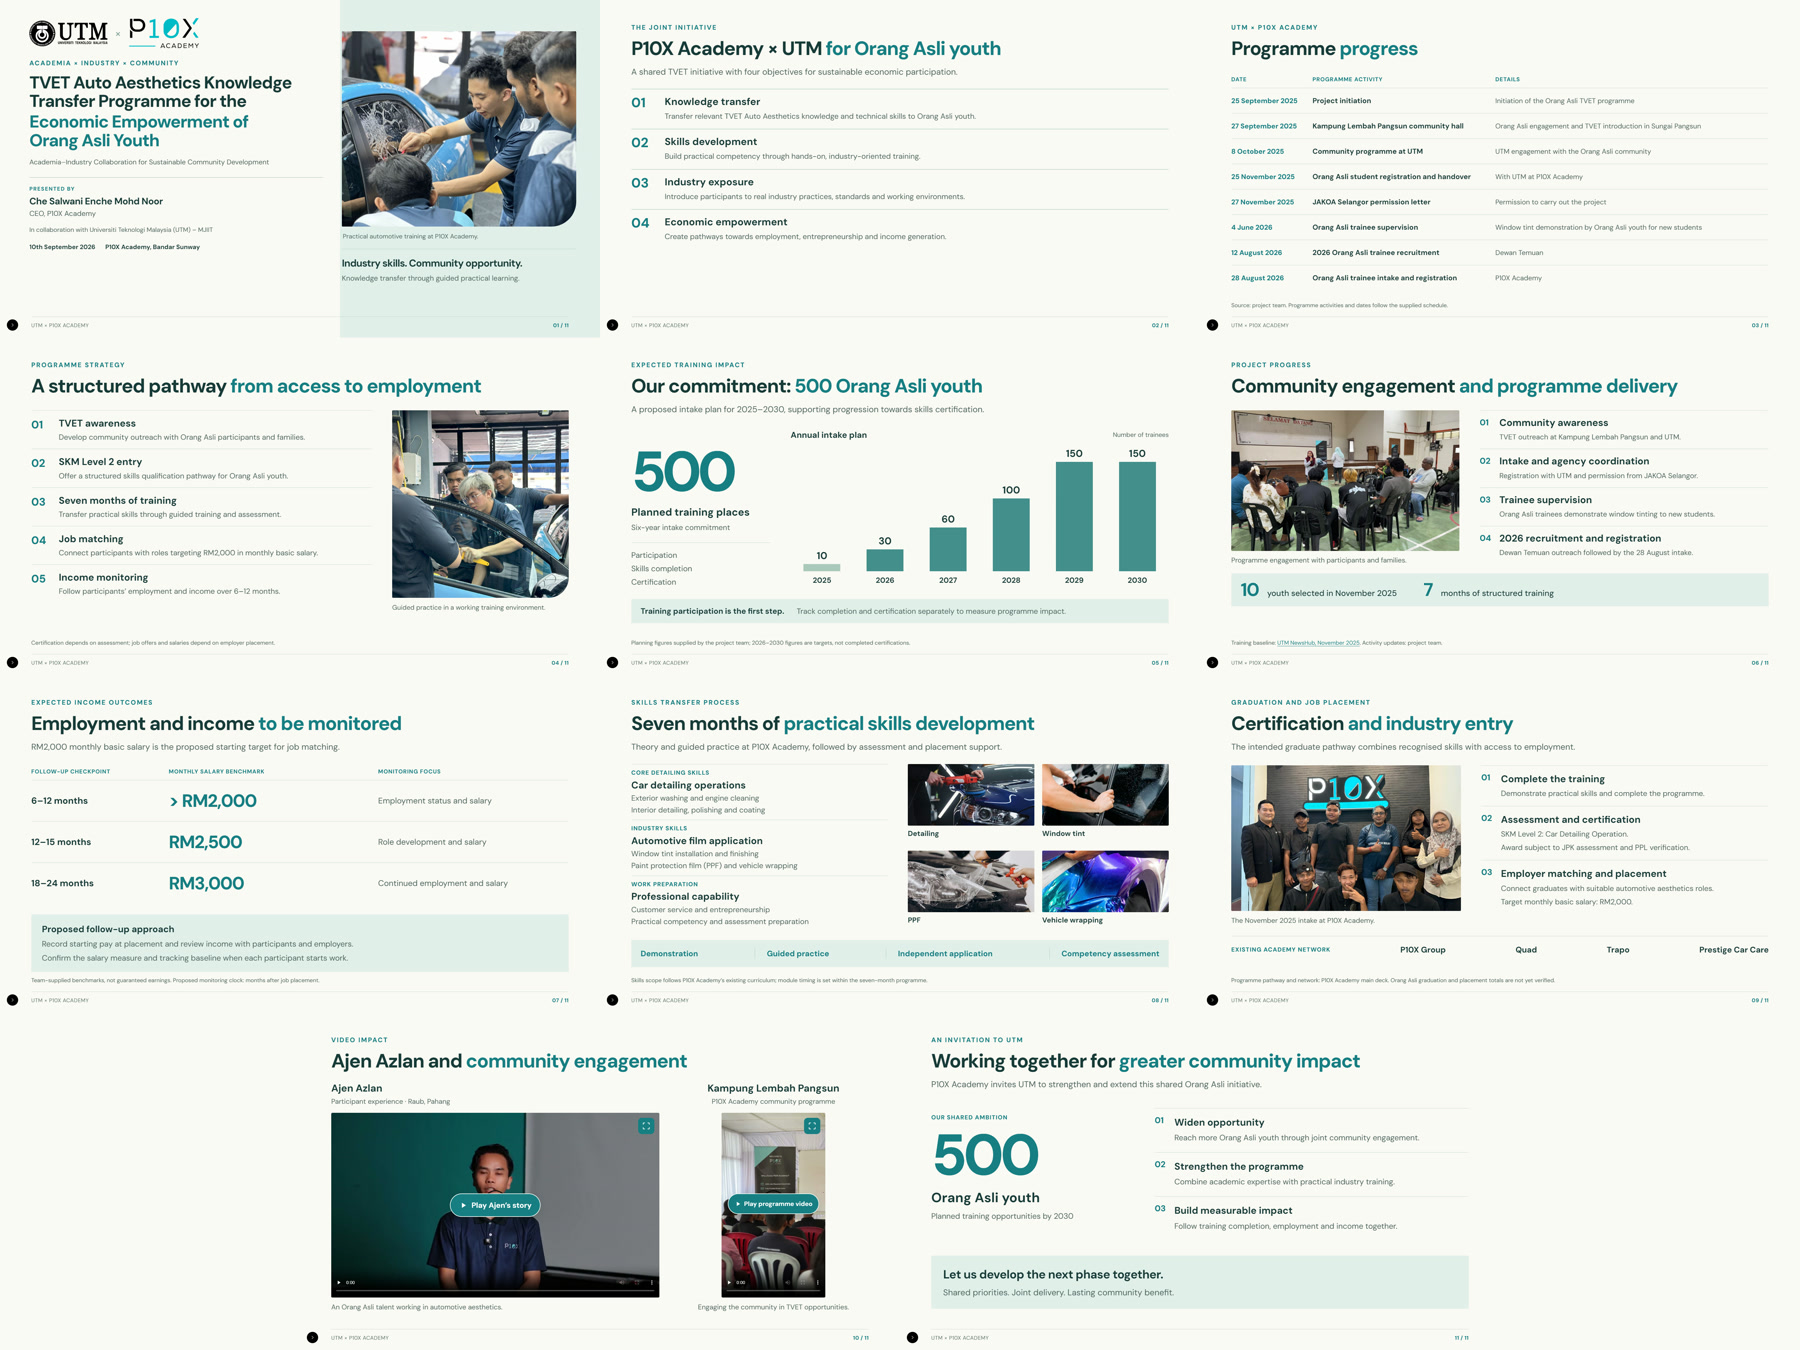
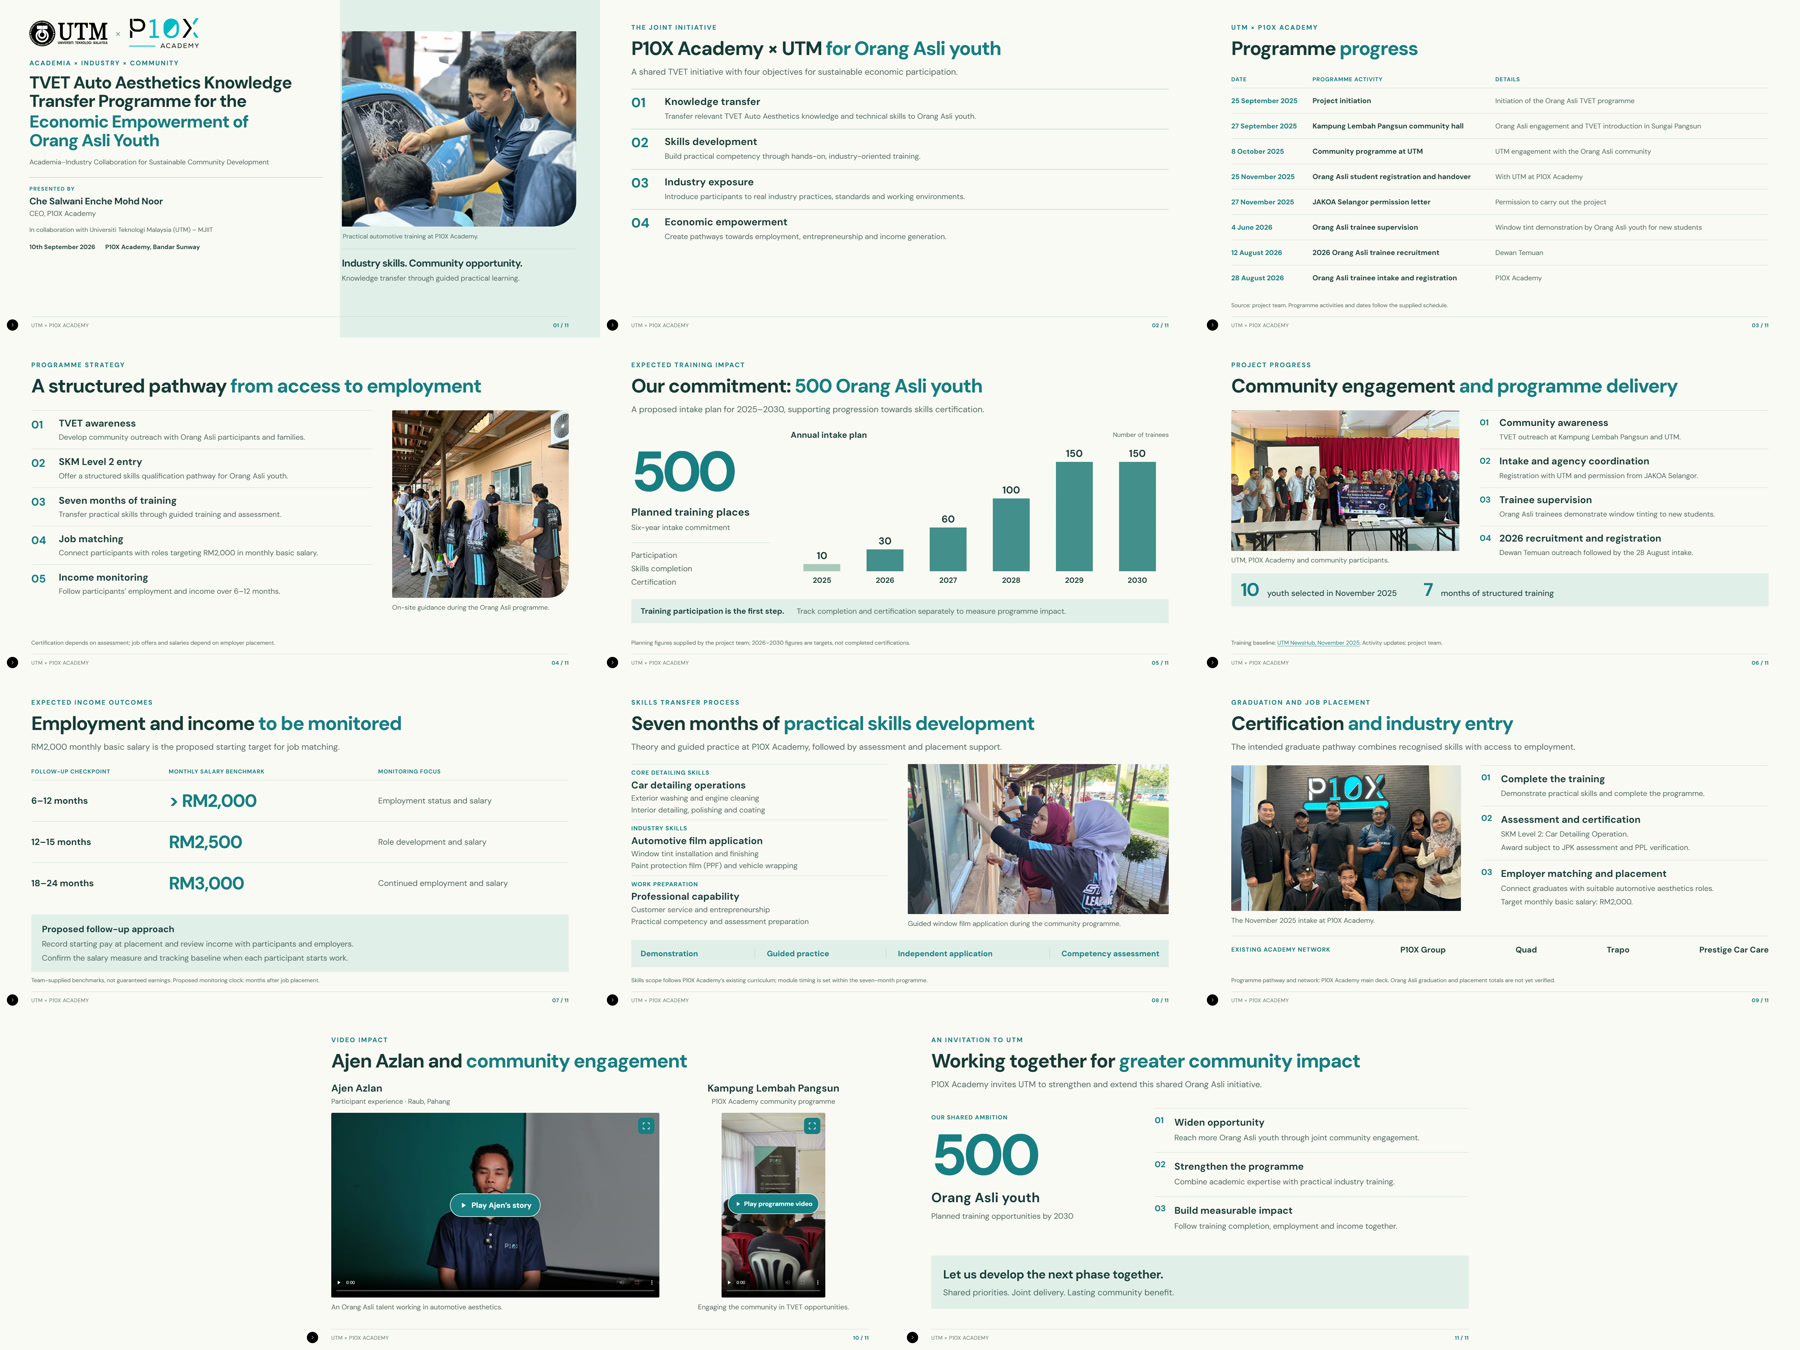
Showcase on-site Orang Asli programme photos

Changed region(s): [[0.2178, 0.28, 0.3422, 0.4667], [0.6844, 0.28, 0.8089, 0.4356], [0.4978, 0.56, 0.6533, 0.6844]]

diff --git a/deck/index.html b/deck/index.html
@@ -1084,7 +1084,7 @@ deck-stage[data-motion="calm"] .road { --T: 1.2s; }
     <h2 class="headline up">A structured pathway <span class="accent">from access to employment</span></h2>
     <div class="strategy-layout">
       <ol class="strategy-list"><li class="up" style="--d:0.07s"><span>01</span><div><h3>TVET awareness</h3><p>Develop community outreach with Orang Asli participants and families.</p></div></li><li class="up" style="--d:0.14s"><span>02</span><div><h3>SKM Level 2 entry</h3><p>Offer a structured skills qualification pathway for Orang Asli youth.</p></div></li><li class="up" style="--d:0.21000000000000002s"><span>03</span><div><h3>Seven months of training</h3><p>Transfer practical skills through guided training and assessment.</p></div></li><li class="up" style="--d:0.28s"><span>04</span><div><h3>Job matching</h3><p>Connect participants with roles targeting RM2,000 in monthly basic salary.</p></div></li><li class="up" style="--d:0.35000000000000003s"><span>05</span><div><h3>Income monitoring</h3><p>Follow participants’ employment and income over 6–12 months.</p></div></li></ol>
-      <figure class="strategy-photo"><img src="../media/image76.jpeg" alt="Trainees practising window tint installation at P10X Academy" /><figcaption>Guided practice in a working training environment.</figcaption></figure>
+      <figure class="strategy-photo site-briefing"><img src="../media/orang-asli-trainer-briefing.png" alt="P10X Academy trainer briefing participants during the on-site Orang Asli programme" /><figcaption>On-site guidance during the Orang Asli programme.</figcaption></figure>
     </div>
     <p class="slide-note">Certification depends on assessment; job offers and salaries depend on employer placement.</p>
     <footer class="pitch-footer"><span>UTM × P10X ACADEMY</span><span class="number">04 / 11</span></footer>
@@ -1119,7 +1119,7 @@ deck-stage[data-motion="calm"] .road { --T: 1.2s; }
     <p class="eyebrow">Project progress</p>
     <h2 class="headline up">Community engagement <span class="accent">and programme delivery</span></h2>
     <div class="progress-layout">
-      <figure class="progress-photo"><img src="../.media/images/image_005.png" alt="P10X Academy introducing training opportunities to Orang Asli participants and families" /><figcaption>Programme engagement with participants and families.</figcaption></figure>
+      <figure class="progress-photo site-group"><img src="../media/orang-asli-community-group.png" alt="Group photograph of UTM, P10X Academy and participants at the Orang Asli community programme" /><figcaption>UTM, P10X Academy and community participants.</figcaption></figure>
       <div class="progress-details">
         <div><span>01</span><h3>Community awareness</h3><p>TVET outreach at Kampung Lembah Pangsun and UTM.</p></div>
         <div><span>02</span><h3>Intake and agency coordination</h3><p>Registration with UTM and permission from JAKOA Selangor.</p></div>
@@ -1161,12 +1161,10 @@ deck-stage[data-motion="calm"] .road { --T: 1.2s; }
         <div><span class="small-label">Industry skills</span><h3>Automotive film application</h3><p>Window tint installation and finishing</p><p>Paint protection film (PPF) and vehicle wrapping</p></div>
         <div><span class="small-label">Work preparation</span><h3>Professional capability</h3><p>Customer service and entrepreneurship</p><p>Practical competency and assessment preparation</p></div>
       </div>
-      <div class="curriculum-photos">
-        <figure><img src="../media/image57.jpeg" alt="Practical car polishing" /><figcaption>Detailing</figcaption></figure>
-        <figure><img src="../media/image63.jpeg" alt="Window tint application" /><figcaption>Window tint</figcaption></figure>
-        <figure><img src="../media/image61.jpeg" alt="Paint protection film installation" /><figcaption>PPF</figcaption></figure>
-        <figure><img src="../media/image62.jpeg" alt="Vehicle wrap application" /><figcaption>Vehicle wrapping</figcaption></figure>
-      </div>
+      <figure class="community-practice">
+        <img src="../media/orang-asli-guided-practice.png" alt="P10X Academy guiding participants through practical window film application during the Orang Asli programme" />
+        <figcaption>Guided window film application during the community programme.</figcaption>
+      </figure>
     </div>
     <div class="training-process"><span>Demonstration</span><span>Guided practice</span><span>Independent application</span><span>Competency assessment</span></div>
     <p class="slide-note">Skills scope follows P10X Academy’s existing curriculum; module timing is set within the seven-month programme.</p>

diff --git a/deck/programme-pitch.css b/deck/programme-pitch.css
@@ -268,3 +268,9 @@ deck-stage { background: #e9eeea; --pitch-paper: #faf9f4; --pitch-ink: #173b39; 
 .portrait-film video { width: 332.4375px; height: 591px; object-fit: contain; }
 .portrait-film .film-play { width: 292px; justify-content: center; padding: 18px 12px; font-size: 20px; gap: 8px; }
 .portrait-film .film-play svg { width: 23px; height: 23px; }
+
+/* On-site programme photographs supplied by the presentation owner. */
+.site-briefing img { object-position: 50% 100%; }
+.site-group img { object-position: 50% 72%; }
+.community-practice img { width: 835px; height: 480px; object-fit: cover; object-position: 50% 38%; border-radius: 3px; }
+.community-practice figcaption { margin-top: 17px; font-size: 22px; line-height: 1.3; color: var(--pitch-muted); white-space: nowrap; }

diff --git a/deck/SOURCES.md b/deck/SOURCES.md
@@ -86,14 +86,16 @@ The main branch's 100 certified trainees figure refers to the broader academy de
 ## Images, video and branding
 
 - Slide 1: media/image75.jpeg, trainer-led window tint demonstration from the existing deck.
-- Slide 4: media/image76.jpeg, academy training photograph from the existing deck.
-- Slide 6: .media/images/image_005.png, community photograph supplied by the owner. Its exact date is not assigned.
-- Slide 8: existing detailing, tint, PPF and wrapping photographs.
+- Slide 4: media/orang-asli-trainer-briefing.png, the owner's on-site photograph of a trainer briefing programme participants.
+- Slide 6: media/orang-asli-community-group.png, the owner's group photograph of UTM, P10X Academy and community programme participants.
+- Slide 8: media/orang-asli-guided-practice.png, the owner's photograph of guided window film application during the programme. The caption does not describe the building windows as vehicle windows.
 - Slide 9: .media/images/image_003.jpeg, November 2025 intake photograph from the verified UTM report. It is not presented as a graduation photograph.
 - Slide 10: existing media/Video1.mp4 and .media/images/image_001.jpg poster. The owner identifies the speaker as Ajen Azlan, an Orang Asli person working in this industry.
 - Slide 10 also includes media/kampung-lembah-pangsun-academy.mp4, supplied by the owner from Downloads. The owner identifies it as the P10X Academy video at Kampung Lembah Pangsun. It is a 29.3-second, 720 × 1280 portrait clip, copied without altering its footage or audio. The poster is extracted at two seconds. No exact event date is assigned to this video.
 
 The CEO title and presenter name follow the owner's instruction. The deck does not claim LinkedIn independently verifies this title.
+
+The three on-site photographs were supplied together in the conversation and imported from the original attached image data. Their pixels are unchanged; CSS crops frame the participants and practical activity. No new date or attendance claim is assigned in their captions. The group photograph's banner reads 4 October 2025, while the owner supplied 8 October 2025 for the UTM community programme in the timeline. The photo is presented as general programme evidence without equating these dates or revising the owner's timeline.
 
 UTM's logo comes from its [official identity page](https://corporate.utm.my/utm-identity/). The P10X logo comes from the existing deck. Fonts and icons remain bundled locally with their licences.
 
